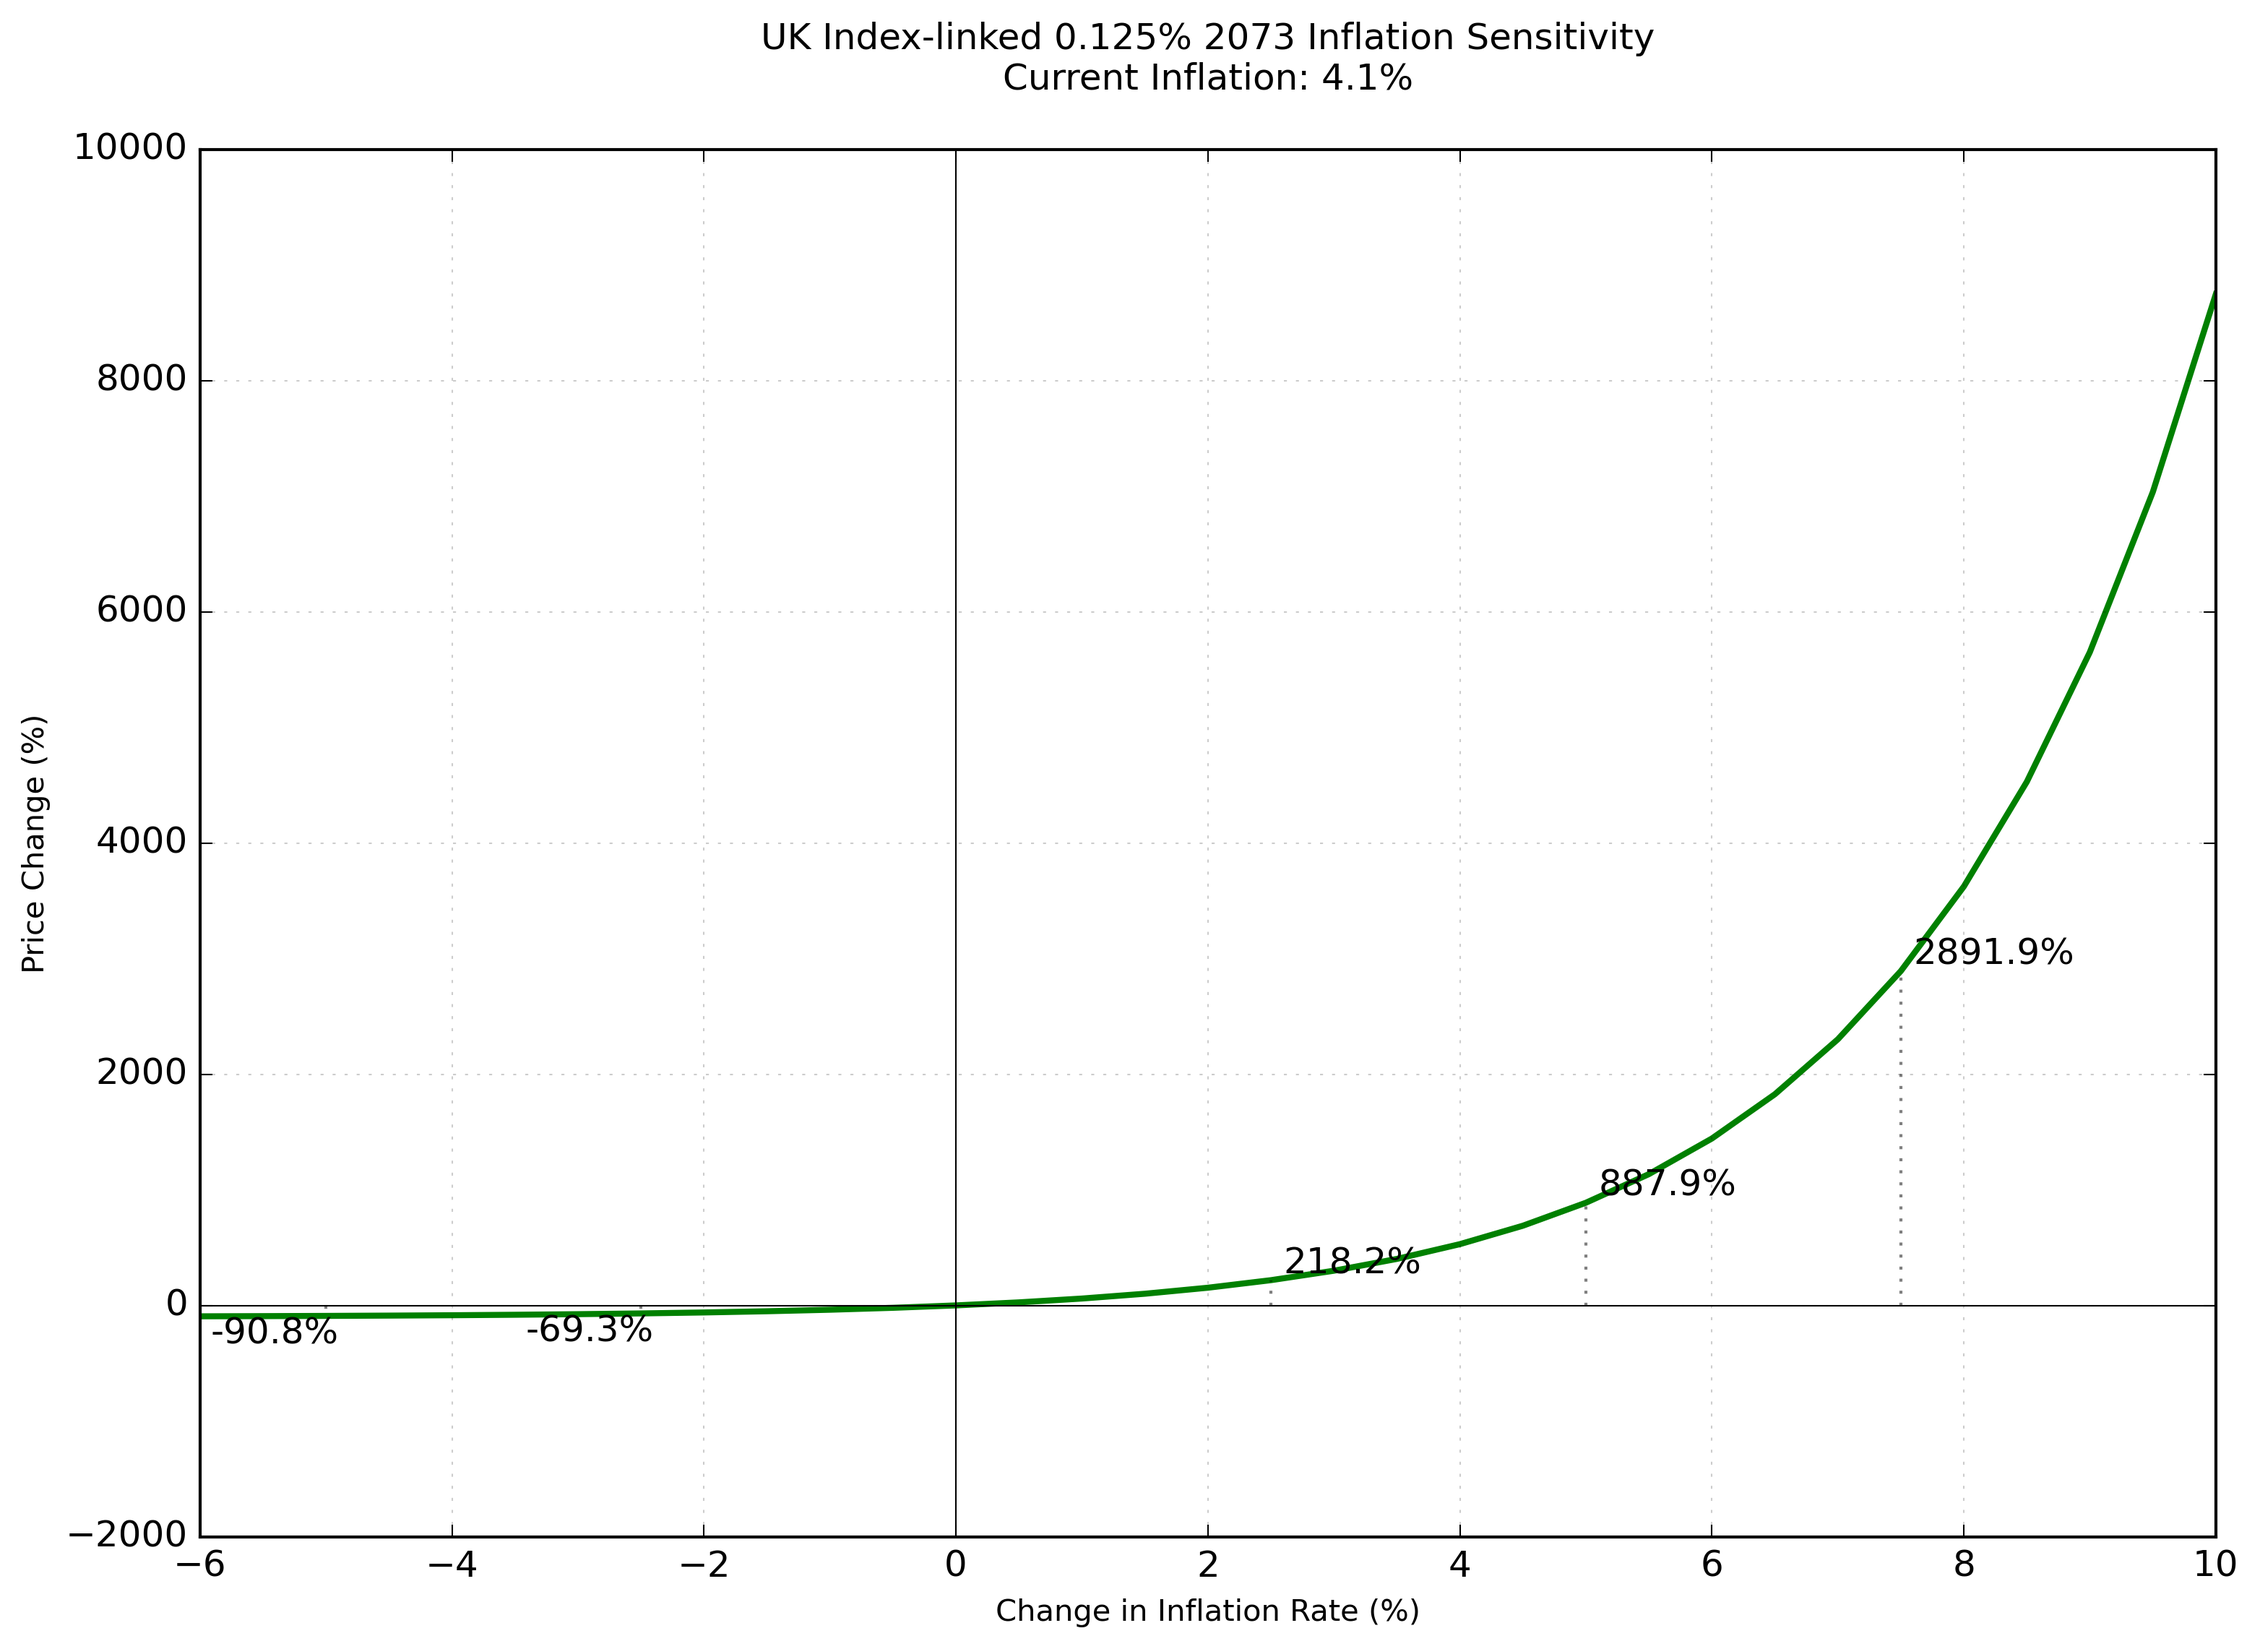
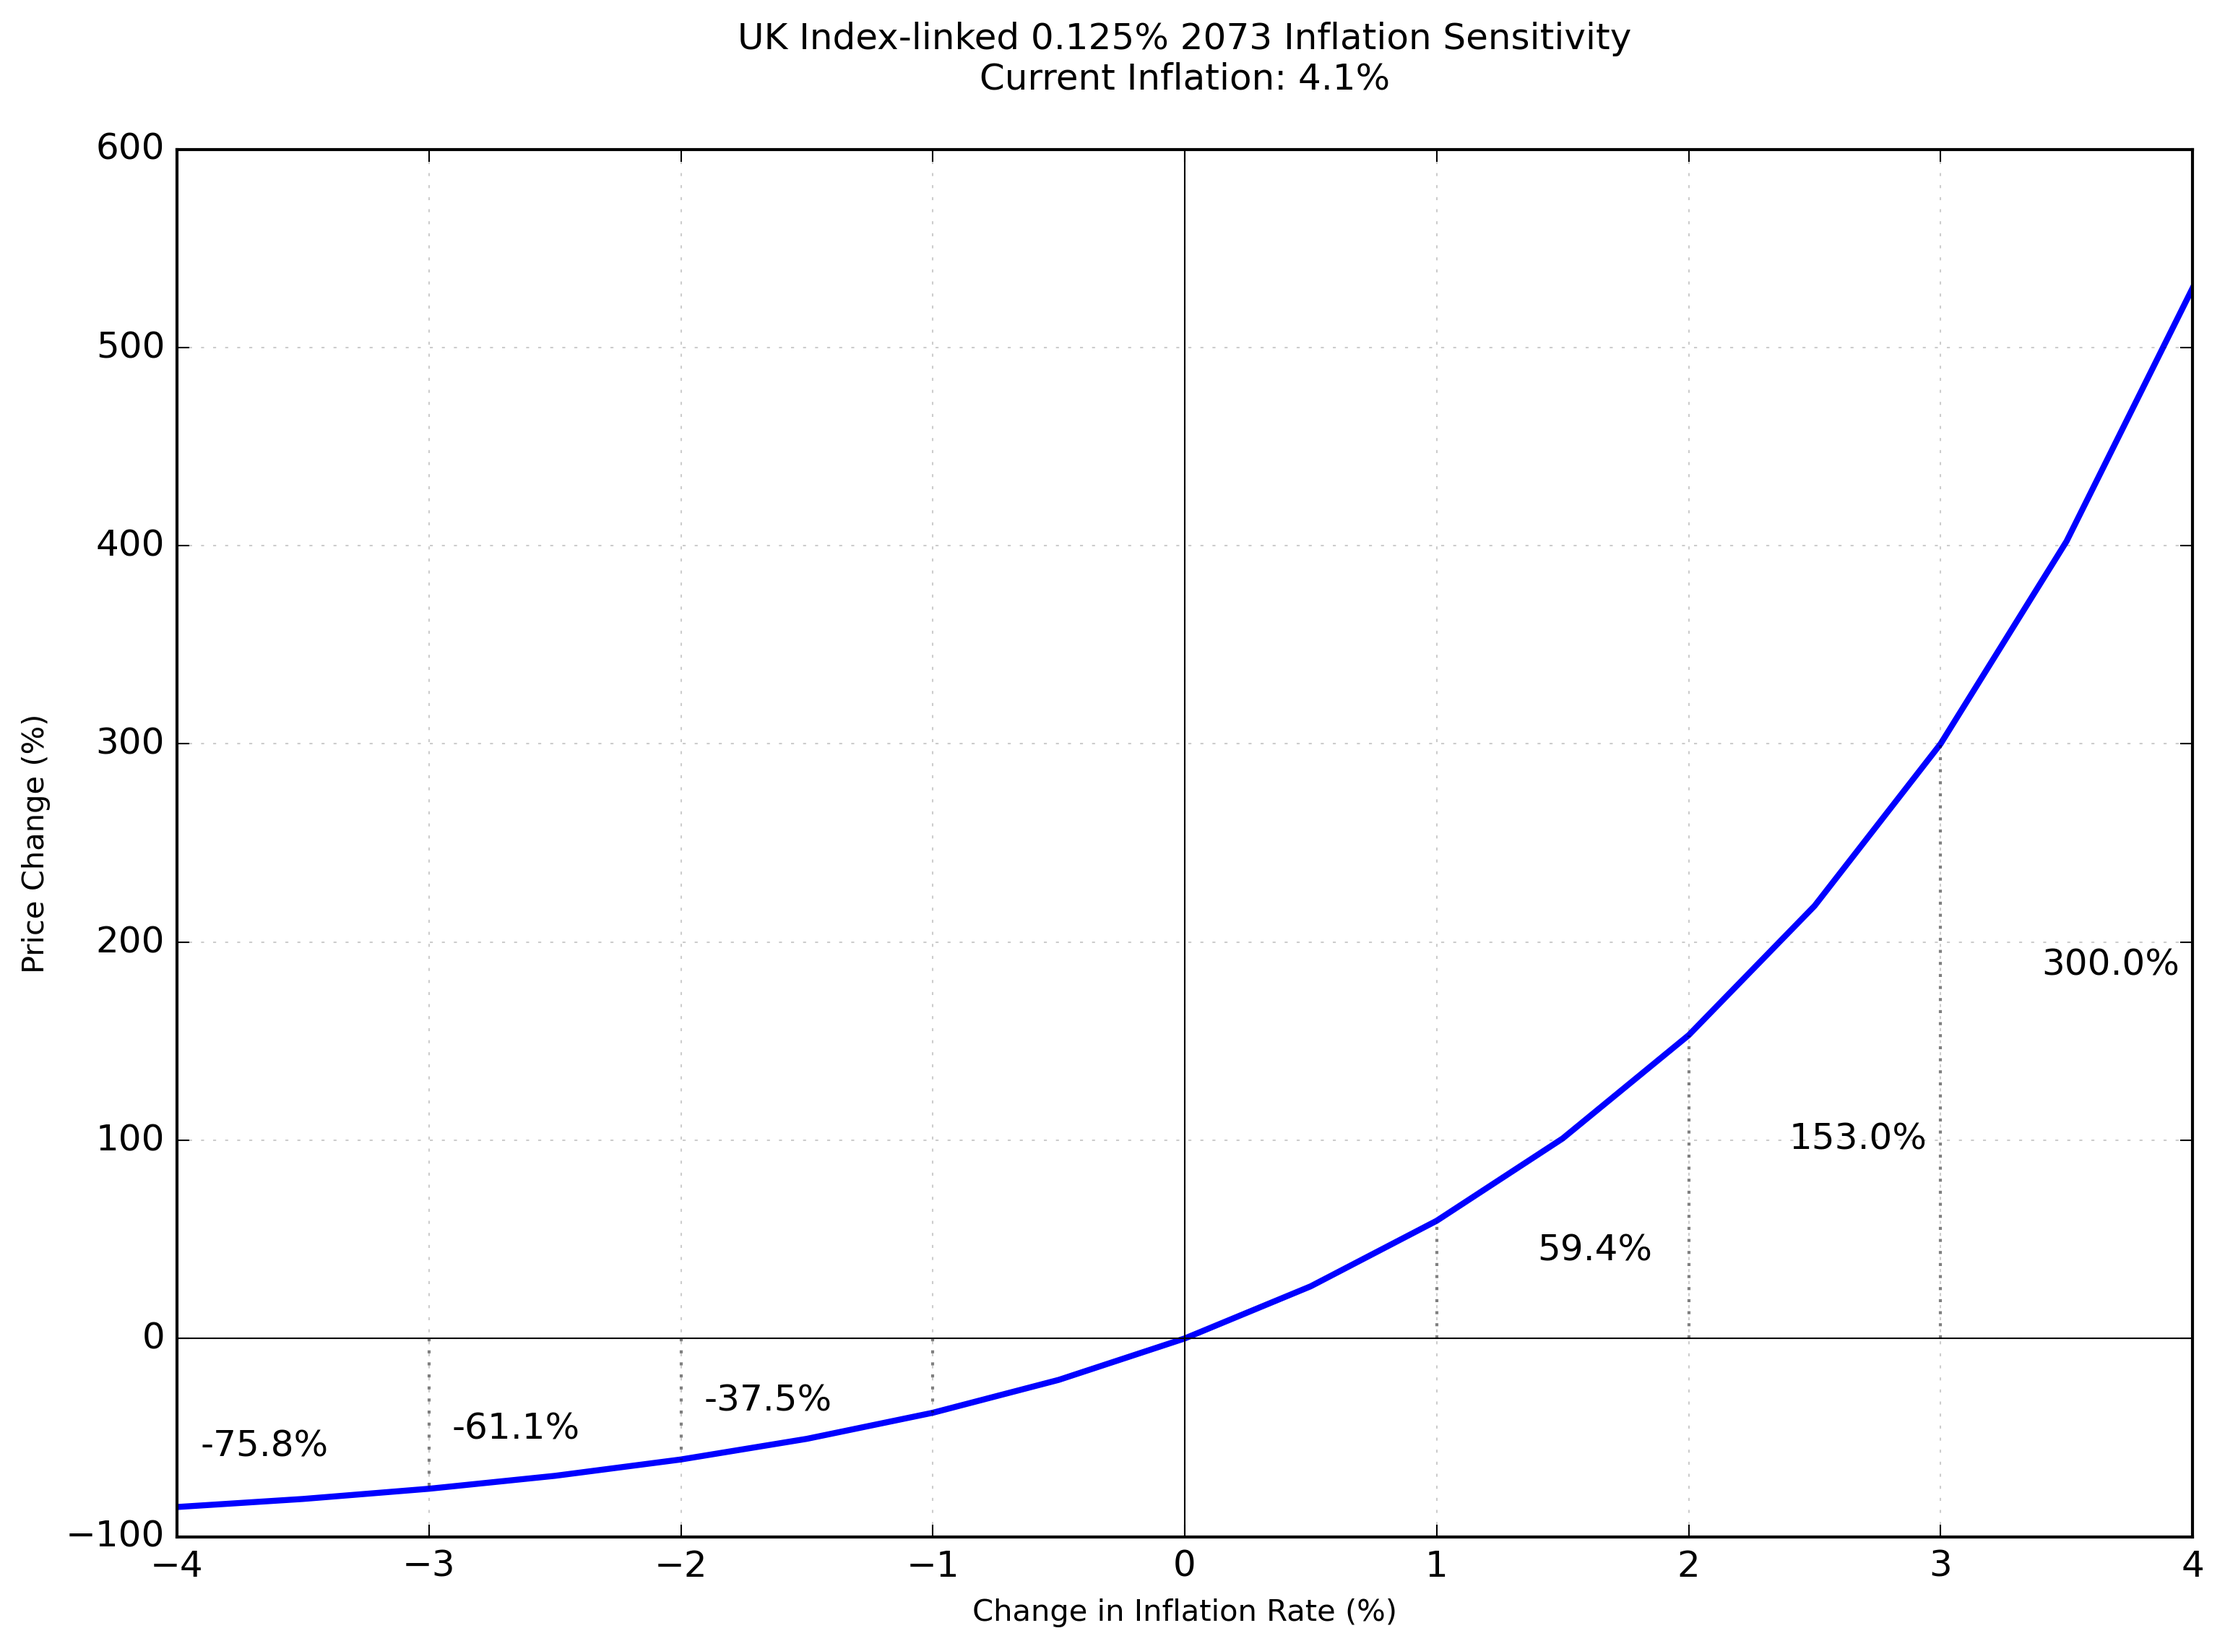
Major update: Added UK and inflation-linked bond analysis - Added UK Gilt and Index-linked Gilt analysis - Created ukandinflationbonds.py for UK market analysis - Enhanced README with inflation protection explanation

diff --git a/ukandinflationbonds.py b/ukandinflationbonds.py
@@ -29,13 +29,7 @@ def breakeven_inflation(nominal_price, real_price, T, nominal_coupon, real_coupo
         return test_rates[np.argmin(values)]
 
 def linker_price(fv, T, real_yield, inflation_rate, real_coup, freq=2):
-    """Calculate inflation-linked bond price
-    fv: Face Value (will be inflated)
-    T: Time to maturity
-    real_yield: Real yield
-    inflation_rate: Current inflation rate
-    real_coup: Real coupon rate
-    """
+    """Calculate inflation-linked bond price"""
     freq = float(freq)
     periods = T*freq
     real_coupon = real_coup/100*fv/freq
@@ -72,7 +66,7 @@ inflation_rate = 0.041  # Current RPI inflation ~4.1%
 # 1. UK Gilt Price Sensitivity
 rate_changes = np.arange(-4, 4.5, 0.5)  # Match treasury range
 gilt_price_changes = []
-gilt_prices = []  # Add actual prices array
+gilt_prices = []
 
 base_gilt_price = linker_price(uk_par, uk_T, uk_yield, 0, uk_coup)
 for dr in rate_changes:
@@ -84,7 +78,7 @@ for dr in rate_changes:
 
 # Find rate change needed for price = 100
 gilt_prices = np.array(gilt_prices)
-par_rate_change = np.interp(100, gilt_prices[::-1], rate_changes[::-1])  # Reverse arrays because price decreases as yield increases
+par_rate_change = np.interp(100, gilt_prices[::-1], rate_changes[::-1])
 par_pct_change = ((100 / base_gilt_price) - 1) * 100
 
 plt.figure(figsize=(12, 8))
@@ -114,11 +108,10 @@ for dr in range(-3, 4):
 
 # Add par marker
 plt.plot([par_rate_change], [par_pct_change], 'ro')  # Red dot at par point
-plt.plot([par_rate_change, par_rate_change], [0, par_pct_change], 'r:', alpha=0.5)  # Vertical line
+plt.plot([par_rate_change, par_rate_change], [0, par_pct_change], 'r:', alpha=0.5)
 plt.text(par_rate_change + 0.1, par_pct_change, f'Par: {par_rate_change:.1f}%', 
         color='red', horizontalalignment='left')
 
-# Formatting
 plt.grid(True, alpha=0.2)
 plt.xlabel('Change in Yield (%)', fontsize=10)
 plt.ylabel('Price Change (%)', fontsize=10)
@@ -132,7 +125,7 @@ plt.savefig('uk_gilt_sensitivity.png',
 plt.close()
 
 # 2. Linker Price Sensitivity to Real Yields
-real_rate_changes = np.arange(-3, 3.1, 0.25)  # Extended range for ultra-long linker
+real_rate_changes = np.arange(-4, 4.5, 0.5)  # Match treasury range
 linker_price_changes = []
 
 base_linker_price = linker_price(linker_par, linker_T, linker_real_yield, inflation_rate, linker_coup)
@@ -144,18 +137,28 @@ for dr in real_rate_changes:
 
 plt.figure(figsize=(12, 8))
 plt.style.use('classic')
-plt.plot(real_rate_changes, linker_price_changes, 'r-', linewidth=2)
+
+# Main price sensitivity curve
+plt.plot(real_rate_changes, linker_price_changes, 'b-', linewidth=2)
+
+# Reference lines at current levels
 plt.axhline(y=0, color='black', linestyle='-', linewidth=0.5)
 plt.axvline(x=0, color='black', linestyle='-', linewidth=0.5)
 
-# Add markers for key real yield changes
-for dr in [-2, -1, 1, 2]:
-    idx = np.where(real_rate_changes == dr)[0][0]
-    pct = linker_price_changes[idx]
-    plt.plot([dr, dr], [0, pct], 'k:', alpha=0.5)
-    plt.text(dr + 0.1, pct, f'{pct:.1f}%',
-            horizontalalignment='left' if dr > 0 else 'right',
-            verticalalignment='bottom' if pct > 0 else 'top')
+# Add markers and labels for 1% yield changes
+for dr in range(-3, 4):
+    if dr != 0:
+        idx = np.where(real_rate_changes == dr)[0][0]
+        pct = linker_price_changes[idx]
+        # Vertical reference line
+        plt.plot([dr, dr], [0, pct], 'k:', alpha=0.5)
+        # Price change label with offset for readability
+        x_offset = -0.4 if dr < 0 else 0.4
+        # Move all labels down by 40% of their value
+        y_offset = pct * -0.4  # Negative to move down
+        plt.text(dr + x_offset, pct + y_offset, f'{pct:.1f}%', 
+                horizontalalignment='right' if dr < 0 else 'left',
+                verticalalignment='bottom' if pct > 0 else 'top')
 
 plt.grid(True, alpha=0.2)
 plt.xlabel('Change in Real Yield (%)', fontsize=10)
@@ -170,7 +173,7 @@ plt.savefig('uk_linker_sensitivity.png',
 plt.close()
 
 # 3. Inflation Sensitivity
-inflation_changes = np.arange(-6, 10.1, 0.5)  # Extended range for inflation scenarios
+inflation_changes = np.arange(-4, 4.5, 0.5)  # Match other ranges
 inflation_price_changes = []
 
 for di in inflation_changes:
@@ -181,18 +184,28 @@ for di in inflation_changes:
 
 plt.figure(figsize=(12, 8))
 plt.style.use('classic')
-plt.plot(inflation_changes, inflation_price_changes, 'g-', linewidth=2)
+
+# Main price sensitivity curve
+plt.plot(inflation_changes, inflation_price_changes, 'b-', linewidth=2)
+
+# Reference lines at current levels
 plt.axhline(y=0, color='black', linestyle='-', linewidth=0.5)
 plt.axvline(x=0, color='black', linestyle='-', linewidth=0.5)
 
-# Add markers for extreme scenarios
-for di in [-5, -2.5, 2.5, 5, 7.5]:
-    idx = np.where(inflation_changes == di)[0][0]
-    pct = inflation_price_changes[idx]
-    plt.plot([di, di], [0, pct], 'k:', alpha=0.5)
-    plt.text(di + 0.1, pct, f'{pct:.1f}%',
-            horizontalalignment='left' if di > 0 else 'right',
-            verticalalignment='bottom' if pct > 0 else 'top')
+# Add markers and labels for 1% inflation changes
+for di in range(-3, 4):
+    if di != 0:
+        idx = np.where(inflation_changes == di)[0][0]
+        pct = inflation_price_changes[idx]
+        # Vertical reference line
+        plt.plot([di, di], [0, pct], 'k:', alpha=0.5)
+        # Price change label with offset for readability
+        x_offset = -0.4 if di < 0 else 0.4
+        # Move all labels down by 40% of their value
+        y_offset = pct * -0.4  # Negative to move down
+        plt.text(di + x_offset, pct + y_offset, f'{pct:.1f}%', 
+                horizontalalignment='right' if di < 0 else 'left',
+                verticalalignment='bottom' if pct > 0 else 'top')
 
 plt.grid(True, alpha=0.2)
 plt.xlabel('Change in Inflation Rate (%)', fontsize=10)
@@ -206,44 +219,59 @@ plt.savefig('uk_inflation_sensitivity.png',
             facecolor='white')
 plt.close()
 
-# 4. Breakeven Analysis with Historical Context
-inflation_scenarios = np.arange(0, 12.1, 0.5)
+# 4. Breakeven Analysis
+inflation_changes = np.arange(-4, 4.5, 0.5)  # ±4% range
 nominal_values = []
 real_values = []
 
-# Calculate base prices first
+# Calculate base prices and breakeven
 base_nominal = linker_price(uk_par, uk_T, uk_yield, 0, uk_coup)
 base_real = linker_price(linker_par, linker_T, linker_real_yield, inflation_rate, linker_coup)
-
-# Calculate breakeven before the loop
 breakeven = breakeven_inflation(base_nominal, base_real, uk_T, uk_coup, linker_coup)
 
-# Then calculate values for plotting
-for inf in inflation_scenarios:
+# Calculate values and percentage differences
+for di in inflation_changes:
     nominal_price = linker_price(uk_par, uk_T, uk_yield, 0, uk_coup)
-    real_price = linker_price(linker_par, linker_T, linker_real_yield, inf/100, linker_coup)
-    nominal_values.append(nominal_price)
-    real_values.append(real_price)
+    real_price = linker_price(linker_par, linker_T, linker_real_yield, inflation_rate + di/100, linker_coup)
+    
+    # Convert to percentage difference from nominal
+    nominal_pct = 0  # Nominal is reference line
+    real_pct = ((real_price / nominal_price) - 1) * 100
+    
+    nominal_values.append(nominal_pct)
+    real_values.append(real_pct)
 
 plt.figure(figsize=(12, 8))
 plt.style.use('classic')
-plt.plot(inflation_scenarios, nominal_values, 'b-', linewidth=2, label='Nominal Gilt (0.5% 2061)')
-plt.plot(inflation_scenarios, real_values, 'r-', linewidth=2, label='Index-linked Gilt (0.125% 2073)')
 
-# Find breakeven point
-plt.axvline(x=breakeven*100, color='g', linestyle='--', alpha=0.5, 
-            label=f'Breakeven: {breakeven*100:.1f}%')
+# Plot percentage differences
+plt.plot(inflation_changes, nominal_values, 'b-', linewidth=2, label='Nominal Gilt (0.5% 2061)')
+plt.plot(inflation_changes, real_values, 'r-', linewidth=2, label='Index-linked Gilt (0.125% 2073)')
 
-# Add historical context
-plt.axvline(x=4.1, color='orange', linestyle=':', alpha=0.5, 
-            label='Current RPI: 4.1%')
-plt.axvline(x=11.1, color='gray', linestyle=':', alpha=0.5,
-            label='Peak RPI (2022): 11.1%')
+# Reference lines
+plt.axhline(y=0, color='black', linestyle='-', linewidth=0.5)
+plt.axvline(x=0, color='black', linestyle='-', linewidth=0.5)
+
+# Add current inflation marker
+plt.axvline(x=0, color='orange', linestyle=':', alpha=0.5, 
+            label=f'Current RPI: {inflation_rate*100:.1f}%')
+
+# Add markers for key changes
+for di in range(-3, 4):
+    if di != 0:
+        idx = np.where(inflation_changes == di)[0][0]
+        pct = real_values[idx]
+        plt.plot([di, di], [0, pct], 'k:', alpha=0.5)
+        x_offset = -0.4 if di < 0 else 0.4
+        y_offset = pct * -0.4
+        plt.text(di + x_offset, pct + y_offset, f'{pct:.1f}%',
+                horizontalalignment='right' if di < 0 else 'left',
+                verticalalignment='bottom' if pct > 0 else 'top')
 
 plt.grid(True, alpha=0.2)
-plt.xlabel('Inflation Rate (%)', fontsize=10)
-plt.ylabel('Bond Price (£)', fontsize=10)
-plt.title('Ultra-Long UK Gilt vs Index-linked Gilt Value\nBreakeven Analysis',
+plt.xlabel('Change in Inflation Rate (%)', fontsize=10)
+plt.ylabel('Price Difference from Nominal (%)', fontsize=10)
+plt.title('Index-linked vs Nominal Gilt Value\nRelative Performance Analysis',
           fontsize=12, pad=20)
 plt.legend(bbox_to_anchor=(1.05, 1), loc='upper left')
 
